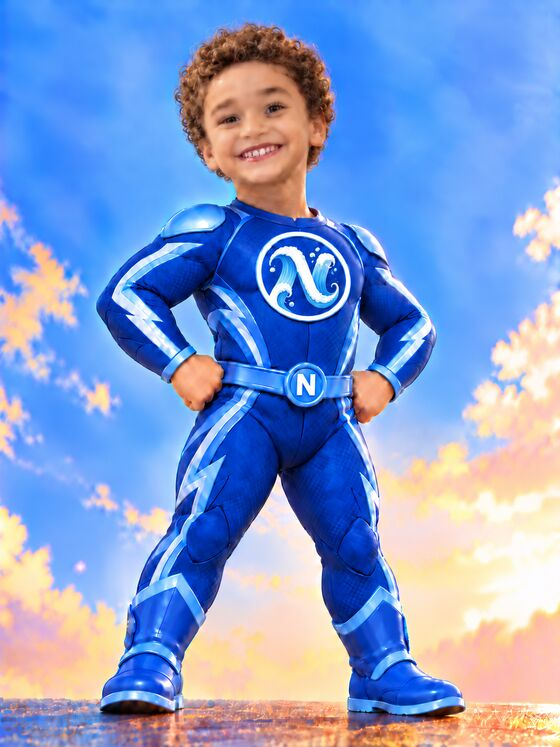
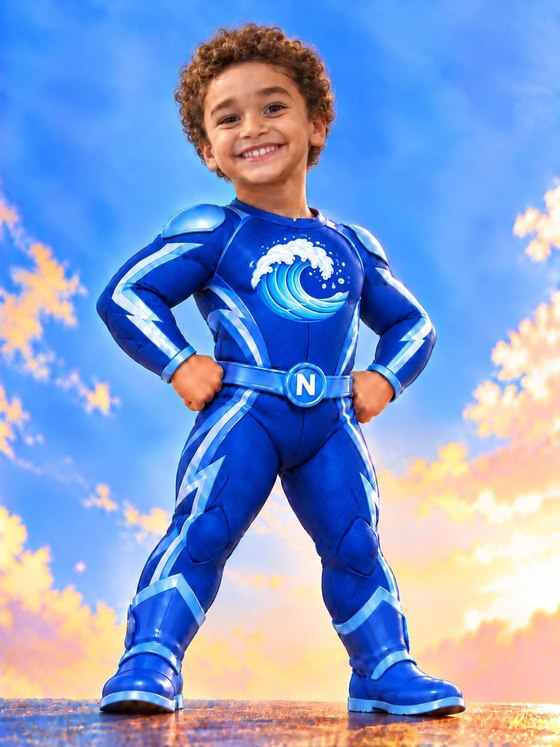
Update hero portraits to latest character images; bump SW cache kh-v7

diff --git a/sw.js b/sw.js
@@ -1,4 +1,4 @@
-const V = 'kh-v6';
+const V = 'kh-v7';
 const CORE = ['/', '/index.html', '/style.css', '/app.js', '/config.js', '/manifest.webmanifest', '/assets/fonts/fonts.css', '/assets/poster.jpg'];
 self.addEventListener('install', (e) => { e.waitUntil(caches.open(V).then((c) => c.addAll(CORE)).then(() => self.skipWaiting())); });
 self.addEventListener('activate', (e) => { e.waitUntil(caches.keys().then((ks) => Promise.all(ks.filter((k) => k !== V).map((k) => caches.delete(k)))).then(() => self.clients.claim())); });
